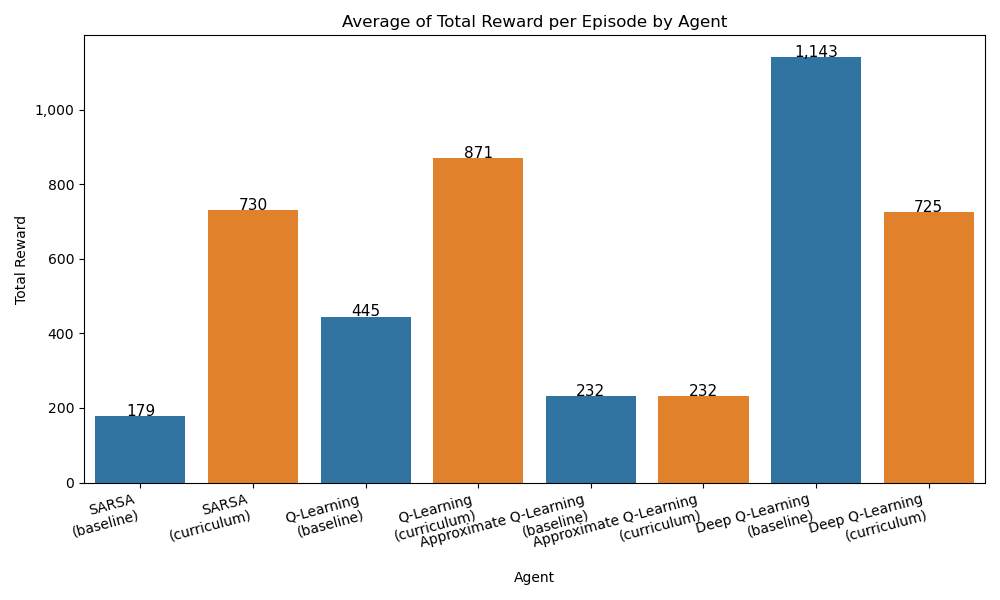
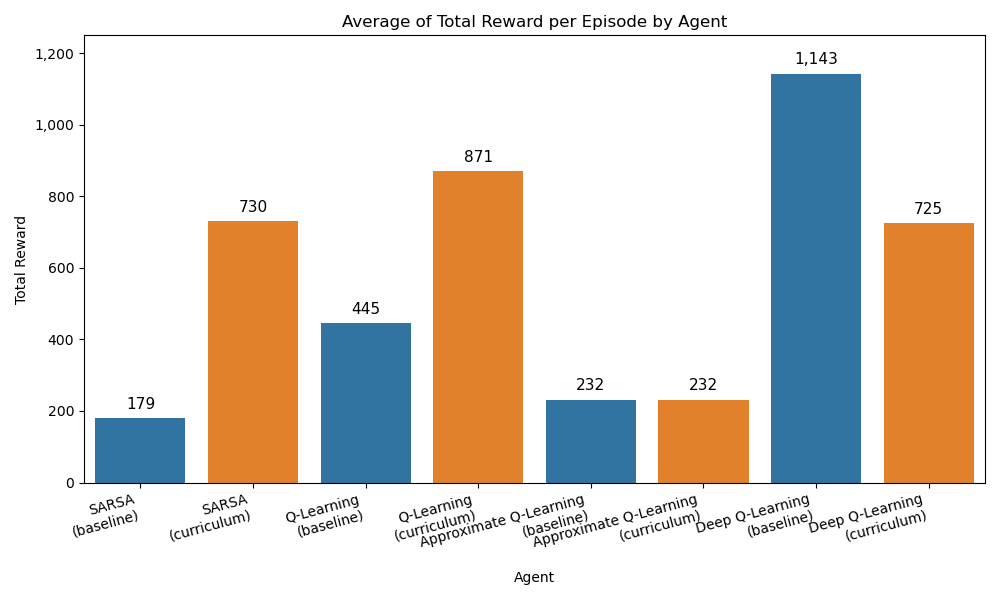
Fixed plot of total reward by agent

diff --git a/source/6_analyze_results.py b/source/6_analyze_results.py
@@ -50,15 +50,16 @@ ax = sns.barplot(
 plt.title("Total Reward by Agent")
 plt.title("Average of Total Reward per Episode by Agent")
 plt.xlabel("Agent")
-plt.ylabel("Total Reward")
 plt.xticks(rotation=15, ha="right")
+plt.ylabel("Total Reward")
+plt.ylim(0, 1250)
 ax.get_yaxis().set_major_formatter(
     matplotlib.ticker.FuncFormatter(lambda x, p: format(int(x), ',')))
 plt.subplots_adjust(bottom=0.15)
 for p in plt.gca().patches:
     plt.gca().annotate(
         f"{p.get_height():,.0f}",
-        (p.get_x() + p.get_width() / 2, p.get_height() - 25.0),
+        (p.get_x() + p.get_width() / 2, p.get_height()),
         ha="center",
         va="center",
         fontsize=11,
